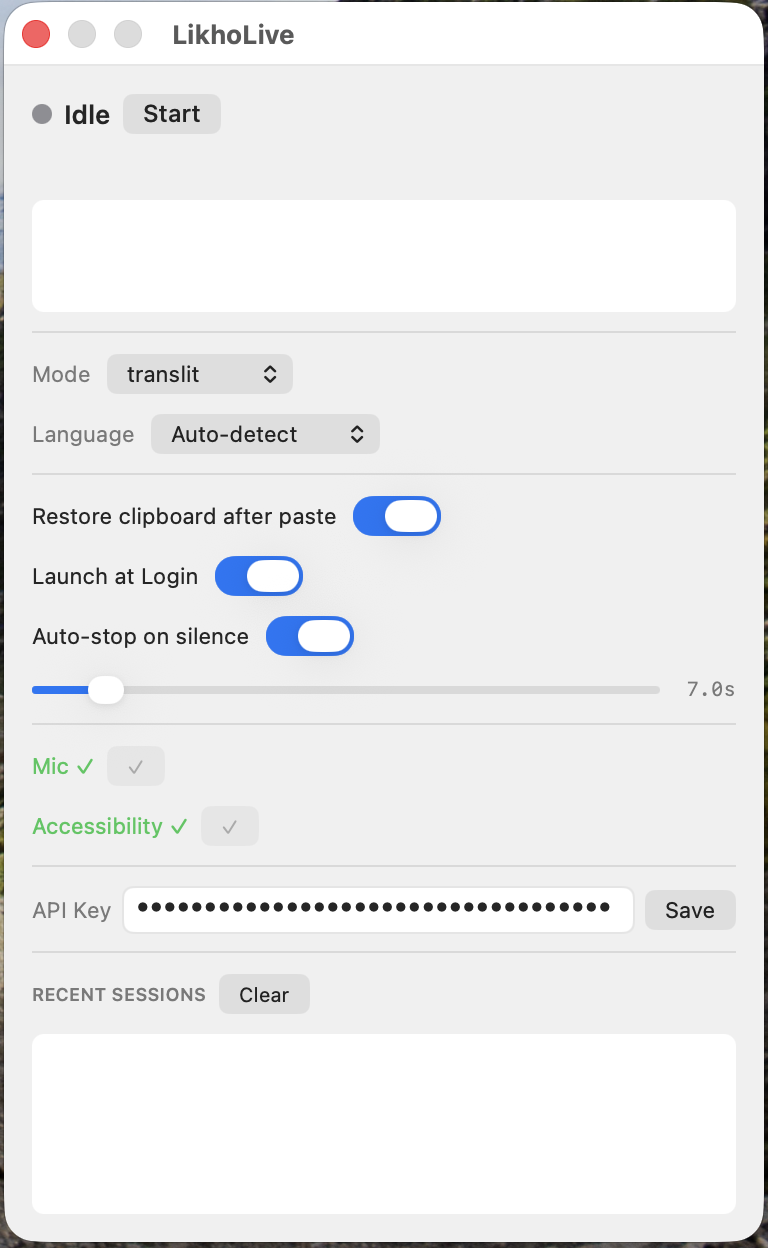
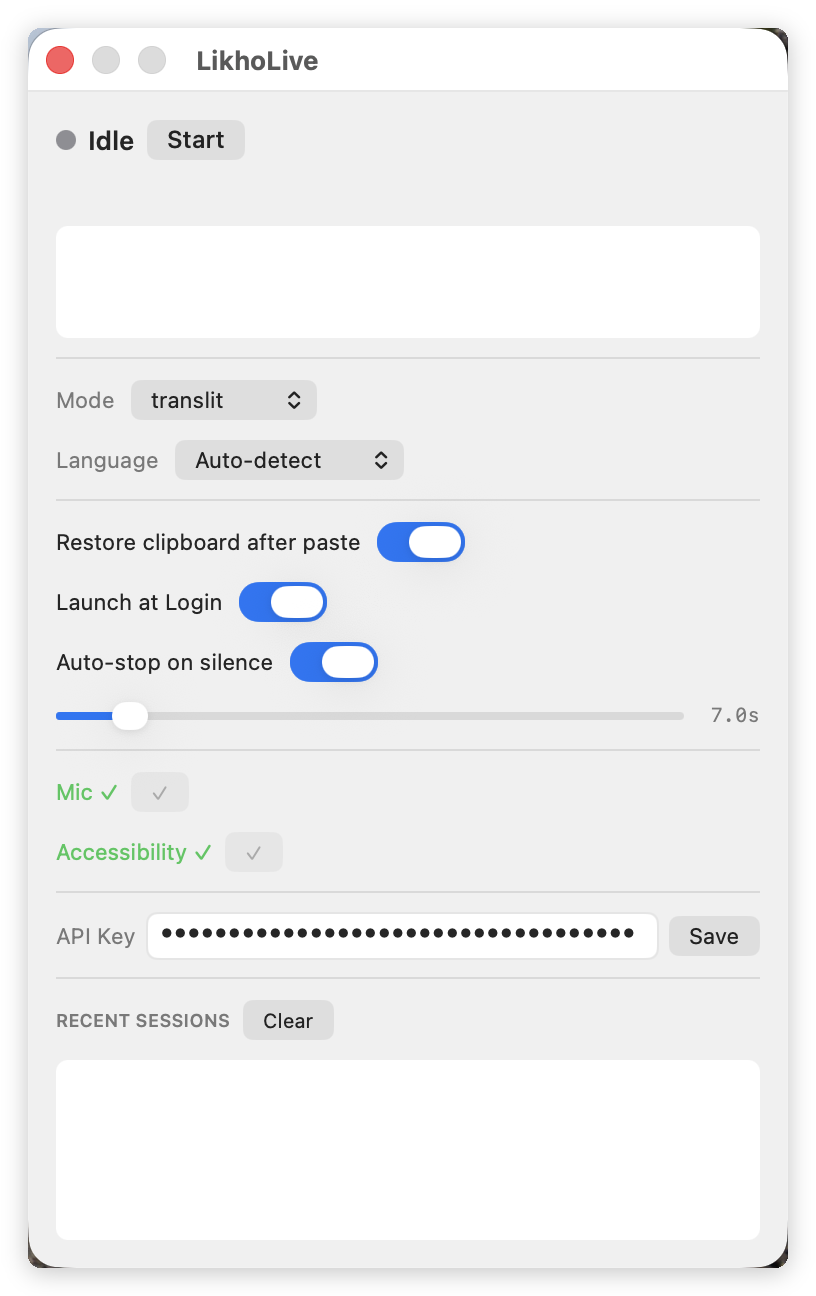
Clean screenshot borders, uniform size, rounded corners, better README layout

diff --git a/README.md b/README.md
@@ -9,11 +9,13 @@ Real-time multilingual speech-to-text for macOS — lives in your menu bar, type
 ## Screenshots
 
 <p align="center">
-  <img src="LikhoLive/Screenshots/screenshot-1.png" width="190" alt="Idle">
-  <img src="LikhoLive/Screenshots/screenshot-2.png" width="190" alt="Listening">
-  <img src="LikhoLive/Screenshots/screenshot-3.png" width="190" alt="Settings">
-  <img src="LikhoLive/Screenshots/screenshot-4.png" width="190" alt="Transcript">
-  <img src="LikhoLive/Screenshots/screenshot-5.png" width="190" alt="Permissions">
+  <img src="LikhoLive/Screenshots/screenshot-1.png" width="360" alt="Menu bar">
+</p>
+<p align="center">
+  <img src="LikhoLive/Screenshots/screenshot-2.png" width="180" alt="Idle">
+  <img src="LikhoLive/Screenshots/screenshot-3.png" width="180" alt="Mode picker">
+  <img src="LikhoLive/Screenshots/screenshot-4.png" width="180" alt="Listening">
+  <img src="LikhoLive/Screenshots/screenshot-5.png" width="180" alt="Language picker">
 </p>
 
 ---
